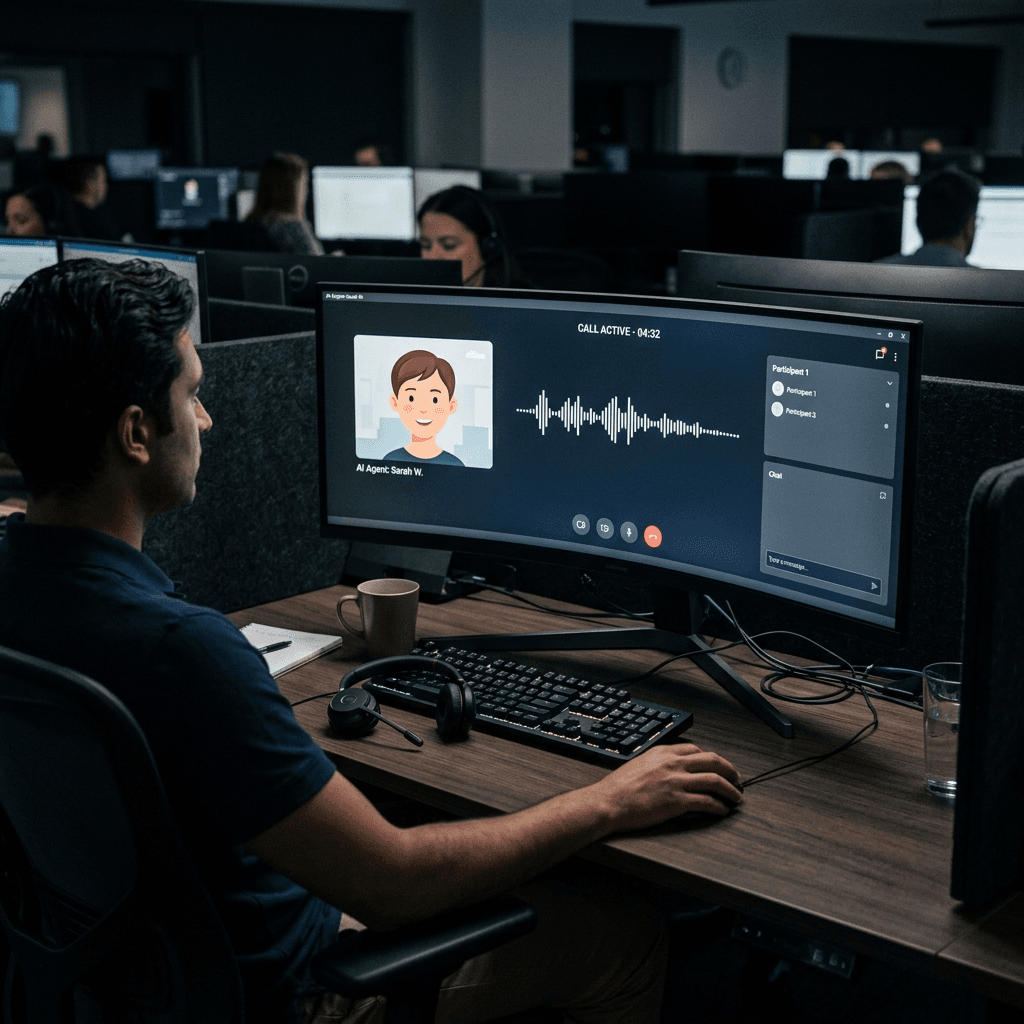
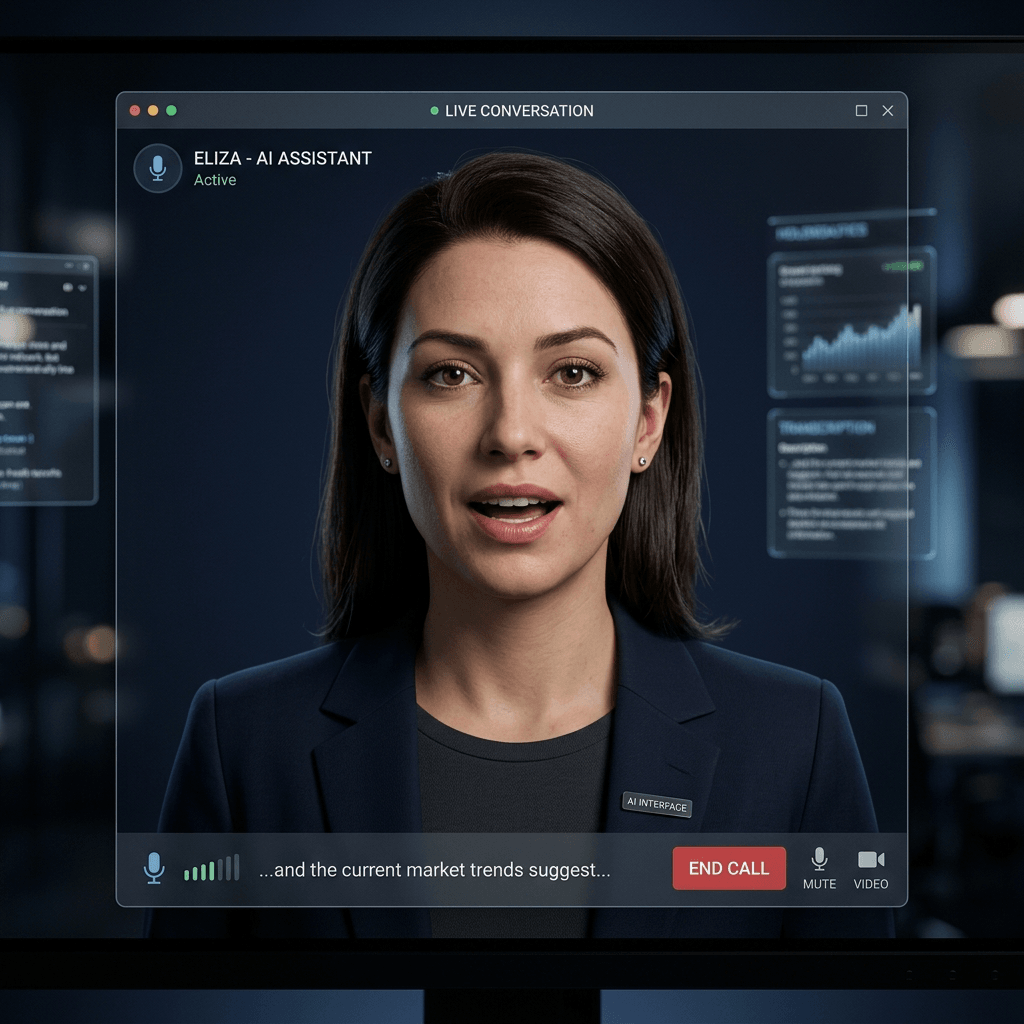
fix-mobile-form-collapsible-bottom-sheet-and-metahuman-image

diff --git a/src/components/ServiceModal.tsx b/src/components/ServiceModal.tsx
@@ -1,10 +1,9 @@
 'use client';
 
-import { useEffect } from 'react';
+import { useEffect, useState } from 'react';
 import { motion, AnimatePresence } from 'framer-motion';
-import { X, ChevronRight, ArrowRight } from 'lucide-react';
+import { X, ChevronRight, ArrowRight, ChevronUp, ChevronDown } from 'lucide-react';
 import Image from 'next/image';
-import Link from 'next/link';
 
 export interface ModalService {
   id: string;
@@ -26,6 +25,8 @@ interface ServiceModalProps {
 }
 
 export default function ServiceModal({ service, onClose }: ServiceModalProps) {
+  const [formOpen, setFormOpen] = useState(false);
+
   // Close on Escape
   useEffect(() => {
     const onKey = (e: KeyboardEvent) => { if (e.key === 'Escape') onClose(); };
@@ -33,10 +34,14 @@ export default function ServiceModal({ service, onClose }: ServiceModalProps) {
     return () => window.removeEventListener('keydown', onKey);
   }, [onClose]);
 
-  // Lock scroll when open
+  // Lock scroll when open; reset formOpen on new service
   useEffect(() => {
-    if (service) document.body.style.overflow = 'hidden';
-    else document.body.style.overflow = '';
+    if (service) {
+      document.body.style.overflow = 'hidden';
+      setFormOpen(false); // always start collapsed on mobile
+    } else {
+      document.body.style.overflow = '';
+    }
     return () => { document.body.style.overflow = ''; };
   }, [service]);
 
@@ -55,7 +60,7 @@ export default function ServiceModal({ service, onClose }: ServiceModalProps) {
             onClick={onClose}
           />
 
-          {/* Expanding Panel */}
+          {/* Modal panel */}
           <motion.div
             key={`modal-${service.id}`}
             layoutId={`card-${service.id}`}
@@ -65,16 +70,18 @@ export default function ServiceModal({ service, onClose }: ServiceModalProps) {
             transition={{ type: 'spring', damping: 30, stiffness: 300 }}
             className="fixed inset-0 md:inset-6 lg:inset-12 z-[61] bg-white md:rounded-2xl shadow-2xl overflow-hidden flex flex-col md:flex-row"
           >
+            {/* Close button */}
             <button
               onClick={onClose}
-              className="absolute top-3 right-3 z-20 p-2 rounded-full bg-white/90 hover:bg-white shadow-md text-zinc-600 transition-colors"
+              className="absolute top-3 right-3 z-30 p-2 rounded-full bg-white/90 hover:bg-white shadow-md text-zinc-600 transition-colors"
               aria-label="Close"
             >
               <X className="w-5 h-5" />
             </button>
 
-            {/* LEFT — content: scrollable on all screens */}
+            {/* ── LEFT: scrollable content ── */}
             <div className="flex-1 overflow-y-auto p-6 md:p-10 lg:p-12">
+
               {/* Image hero */}
               <div className="relative w-full h-44 md:h-56 rounded-xl overflow-hidden mb-6 bg-zinc-100">
                 <Image
@@ -99,6 +106,17 @@ export default function ServiceModal({ service, onClose }: ServiceModalProps) {
               <p className="text-[#5A6A7A] font-normal mb-4 leading-relaxed">{service.tagline}</p>
               <p className="text-[#2D3748] leading-relaxed mb-8">{service.longDescription}</p>
 
+              {/* ── Mobile: CTA button to open form (bottom sheet) ── */}
+              <div className="md:hidden mb-6">
+                <button
+                  onClick={() => setFormOpen((v) => !v)}
+                  className="w-full py-3.5 rounded-xl bg-[#0E202E] text-white text-sm font-semibold flex items-center justify-center gap-2 transition-colors active:bg-[#1F3249]"
+                >
+                  {formOpen ? 'Hide Enquiry Form' : 'Request Technical Audit'}
+                  {formOpen ? <ChevronUp className="w-4 h-4" /> : <ChevronRight className="w-4 h-4" />}
+                </button>
+              </div>
+
               {/* Metrics */}
               {service.metrics.length > 0 && (
                 <div className="mb-8">
@@ -116,8 +134,7 @@ export default function ServiceModal({ service, onClose }: ServiceModalProps) {
                 </div>
               )}
 
-
-              {/* Steps / Architecture */}
+              {/* Steps */}
               <h3 className="text-sm font-semibold uppercase tracking-widest text-zinc-400 mb-4">
                 Implementation Pipeline
               </h3>
@@ -151,7 +168,7 @@ export default function ServiceModal({ service, onClose }: ServiceModalProps) {
               <h3 className="text-sm font-semibold uppercase tracking-widest text-zinc-400 mb-3">
                 Use Cases
               </h3>
-              <ul className="space-y-1.5">
+              <ul className="space-y-1.5 pb-4">
                 {service.useCases.map((uc) => (
                   <li key={uc} className="flex items-center gap-2 text-sm text-[#2D3748]">
                     <ArrowRight className="w-3.5 h-3.5 text-[#5A6A7A] flex-shrink-0" />
@@ -161,73 +178,39 @@ export default function ServiceModal({ service, onClose }: ServiceModalProps) {
               </ul>
             </div>
 
-            {/* RIGHT — lead form: full width on mobile, fixed sidebar on md+ */}
-            <div className="w-full md:w-80 lg:w-96 bg-[#0E202E] p-6 md:p-10 flex flex-col gap-5 flex-shrink-0 md:overflow-y-auto">
-              <div className="border-b border-white/10 pb-5">
-                <span className="text-[10px] font-normal uppercase tracking-widest text-[#29B6F6]">Deploy Under NDA</span>
-                <h3 className="text-xl font-normal text-white mt-2 leading-snug">
-                  Integrate {service.title} into your infrastructure
-                </h3>
-                <p className="text-zinc-400 text-sm mt-2 leading-relaxed font-light">
-                  Speak directly with a lead engineer. All conversations are covered by a mutual NDA.
-                </p>
-              </div>
-
-              <form onSubmit={(e) => e.preventDefault()} className="flex flex-col gap-3">
-                {/* Visible label + input pattern for dark bg */}
-                <div>
-                  <label className="block text-[11px] font-normal text-zinc-400 mb-1.5 uppercase tracking-wider">Full Name *</label>
-                  <input
-                    type="text"
-                    placeholder="Jane Smith"
-                    required
-                    className="w-full px-4 py-2.5 rounded-lg bg-white/10 border border-white/20 text-white placeholder-zinc-500 text-sm focus:outline-none focus:bg-white/15 focus:border-[#29B6F6]/60 transition-all"
-                  />
-                </div>
-                <div>
-                  <label className="block text-[11px] font-normal text-zinc-400 mb-1.5 uppercase tracking-wider">Company *</label>
-                  <input
-                    type="text"
-                    placeholder="Acme Corp"
-                    required
-                    className="w-full px-4 py-2.5 rounded-lg bg-white/10 border border-white/20 text-white placeholder-zinc-500 text-sm focus:outline-none focus:bg-white/15 focus:border-[#29B6F6]/60 transition-all"
-                  />
-                </div>
-                <div>
-                  <label className="block text-[11px] font-normal text-zinc-400 mb-1.5 uppercase tracking-wider">Work Email *</label>
-                  <input
-                    type="email"
-                    placeholder="[email redacted]"
-                    required
-                    className="w-full px-4 py-2.5 rounded-lg bg-white/10 border border-white/20 text-white placeholder-zinc-500 text-sm focus:outline-none focus:bg-white/15 focus:border-[#29B6F6]/60 transition-all"
-                  />
-                </div>
-                <div>
-                  <label className="block text-[11px] font-normal text-zinc-400 mb-1.5 uppercase tracking-wider">Your Requirements</label>
-                  <textarea
-                    placeholder={`Brief context on how ${service.title} fits your needs…`}
-                    rows={3}
-                    className="w-full px-4 py-2.5 rounded-lg bg-white/10 border border-white/20 text-white placeholder-zinc-500 text-sm focus:outline-none focus:bg-white/15 focus:border-[#29B6F6]/60 transition-all resize-none"
-                  />
-                </div>
-                <button
-                  type="submit"
-                  className="w-full py-3 rounded-lg bg-[#29B6F6] hover:bg-[#039BE5] text-white text-sm font-normal tracking-wide transition-colors flex items-center justify-center gap-2 mt-1"
-                >
-                  Request Technical Audit
-                  <ChevronRight className="w-4 h-4" />
-                </button>
-              </form>
-
-              <div className="border-t border-white/10 pt-4 space-y-2">
-                {['Under mutual NDA', 'No commitment required', 'Response within 24h'].map((t) => (
-                  <div key={t} className="flex items-center gap-2 text-xs text-zinc-400 font-light">
-                    <span className="w-1.5 h-1.5 rounded-full bg-[#29B6F6]/60 flex-shrink-0" />
-                    {t}
-                  </div>
-                ))}
-              </div>
+            {/* ── RIGHT (desktop): always visible sidebar form ── */}
+            <div className="hidden md:flex w-80 lg:w-96 bg-[#0E202E] p-10 flex-col gap-5 flex-shrink-0 overflow-y-auto">
+              <FormContent service={service} />
             </div>
+
+            {/* ── MOBILE: collapsible bottom sheet form ── */}
+            <AnimatePresence>
+              {formOpen && (
+                <motion.div
+                  key="mobile-form"
+                  initial={{ height: 0, opacity: 0 }}
+                  animate={{ height: 'auto', opacity: 1 }}
+                  exit={{ height: 0, opacity: 0 }}
+                  transition={{ type: 'spring', damping: 32, stiffness: 280 }}
+                  className="md:hidden bg-[#0E202E] overflow-hidden flex-shrink-0"
+                >
+                  {/* Drag handle */}
+                  <div className="flex items-center justify-between px-6 pt-4 pb-2">
+                    <span className="text-xs uppercase tracking-widest text-[#29B6F6] font-semibold">Request Audit</span>
+                    <button
+                      onClick={() => setFormOpen(false)}
+                      className="p-1 rounded-full text-zinc-400 hover:text-white transition-colors"
+                    >
+                      <ChevronDown className="w-5 h-5" />
+                    </button>
+                  </div>
+                  <div className="px-6 pb-6 overflow-y-auto max-h-[55vh]">
+                    <FormContent service={service} compact />
+                  </div>
+                </motion.div>
+              )}
+            </AnimatePresence>
+
           </motion.div>
         </>
       )}
@@ -235,3 +218,83 @@ export default function ServiceModal({ service, onClose }: ServiceModalProps) {
   );
 }
 
+/* ── Shared form content ─────────────────────────────────────── */
+function FormContent({ service, compact = false }: { service: ModalService; compact?: boolean }) {
+  return (
+    <>
+      {!compact && (
+        <div className="border-b border-white/10 pb-5">
+          <span className="text-[10px] font-normal uppercase tracking-widest text-[#29B6F6]">Deploy Under NDA</span>
+          <h3 className="text-xl font-normal text-white mt-2 leading-snug">
+            Integrate {service.title} into your infrastructure
+          </h3>
+          <p className="text-zinc-400 text-sm mt-2 leading-relaxed font-light">
+            Speak directly with a lead engineer. All conversations are covered by a mutual NDA.
+          </p>
+        </div>
+      )}
+
+      {compact && (
+        <p className="text-zinc-400 text-xs mb-4 leading-relaxed">
+          Speak with a lead engineer — all conversations covered by NDA.
+        </p>
+      )}
+
+      <form onSubmit={(e) => e.preventDefault()} className="flex flex-col gap-3">
+        <div>
+          <label className="block text-[11px] font-normal text-zinc-400 mb-1.5 uppercase tracking-wider">Full Name *</label>
+          <input
+            type="text"
+            placeholder="Jane Smith"
+            required
+            className="w-full px-4 py-2.5 rounded-lg bg-white/10 border border-white/20 text-white placeholder-zinc-500 text-sm focus:outline-none focus:bg-white/15 focus:border-[#29B6F6]/60 transition-all"
+          />
+        </div>
+        <div>
+          <label className="block text-[11px] font-normal text-zinc-400 mb-1.5 uppercase tracking-wider">Company *</label>
+          <input
+            type="text"
+            placeholder="Acme Corp"
+            required
+            className="w-full px-4 py-2.5 rounded-lg bg-white/10 border border-white/20 text-white placeholder-zinc-500 text-sm focus:outline-none focus:bg-white/15 focus:border-[#29B6F6]/60 transition-all"
+          />
+        </div>
+        <div>
+          <label className="block text-[11px] font-normal text-zinc-400 mb-1.5 uppercase tracking-wider">Work Email *</label>
+          <input
+            type="email"
+            placeholder="[email redacted]"
+            required
+            className="w-full px-4 py-2.5 rounded-lg bg-white/10 border border-white/20 text-white placeholder-zinc-500 text-sm focus:outline-none focus:bg-white/15 focus:border-[#29B6F6]/60 transition-all"
+          />
+        </div>
+        {!compact && (
+          <div>
+            <label className="block text-[11px] font-normal text-zinc-400 mb-1.5 uppercase tracking-wider">Your Requirements</label>
+            <textarea
+              placeholder={`Brief context on how ${service.title} fits your needs…`}
+              rows={3}
+              className="w-full px-4 py-2.5 rounded-lg bg-white/10 border border-white/20 text-white placeholder-zinc-500 text-sm focus:outline-none focus:bg-white/15 focus:border-[#29B6F6]/60 transition-all resize-none"
+            />
+          </div>
+        )}
+        <button
+          type="submit"
+          className="w-full py-3 rounded-lg bg-[#29B6F6] hover:bg-[#039BE5] text-white text-sm font-semibold tracking-wide transition-colors flex items-center justify-center gap-2 mt-1"
+        >
+          Request Technical Audit
+          <ChevronRight className="w-4 h-4" />
+        </button>
+      </form>
+
+      <div className="border-t border-white/10 pt-4 space-y-2 mt-1">
+        {['Under mutual NDA', 'No commitment required', 'Response within 24h'].map((t) => (
+          <div key={t} className="flex items-center gap-2 text-xs text-zinc-400 font-light">
+            <span className="w-1.5 h-1.5 rounded-full bg-[#29B6F6]/60 flex-shrink-0" />
+            {t}
+          </div>
+        ))}
+      </div>
+    </>
+  );
+}